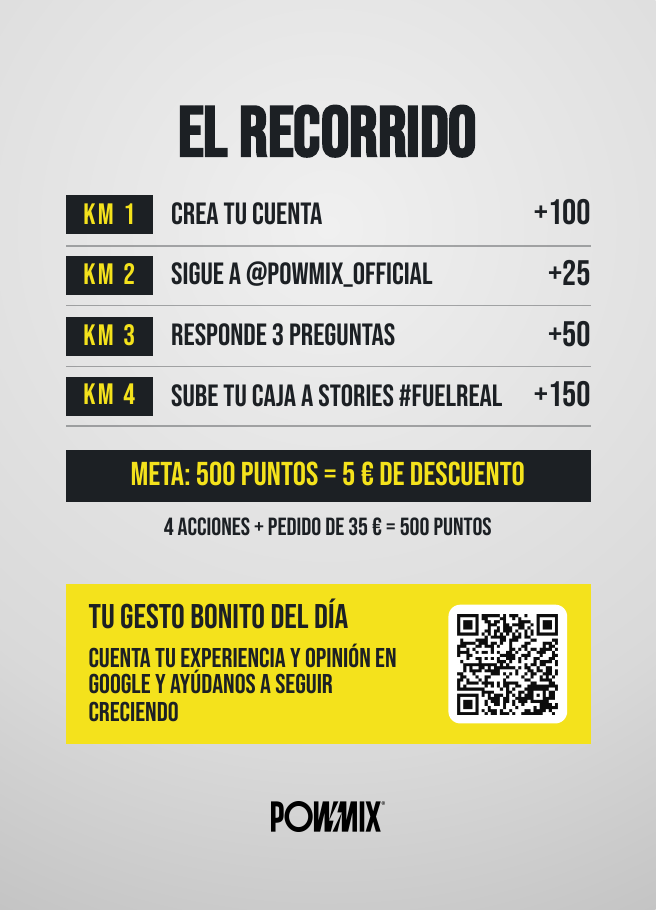
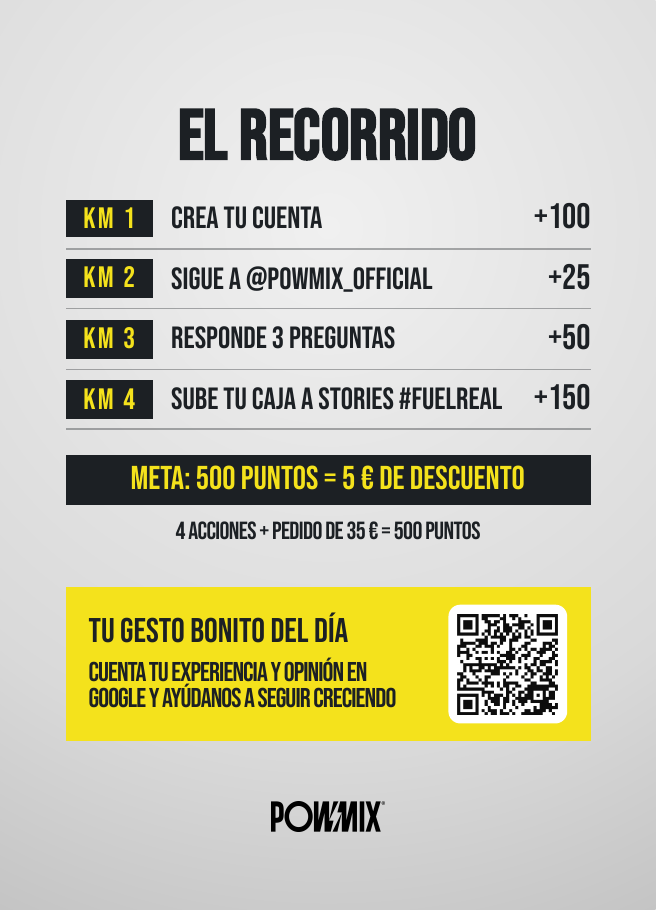
Tighter small text spacing on A6 card
Claude-Session: https://claude.ai/code/session_01ESgrYfWtbUyydYC5uboLBi

Changed region(s): [[0.0913, 0.2151, 0.9132, 0.8299], [0.274, 0.0922, 0.7306, 0.1844], [0.6393, 0.0922, 0.6697, 0.1229]]

diff --git a/a6/a6.html b/a6/a6.html
@@ -12,8 +12,8 @@ body{font-family:Bebas,sans-serif;color:#1c2024}
 .bar{background:#1c2024;color:#f4e21c;padding:1mm 5mm;white-space:nowrap}
 .pts{font-size:9mm;margin-top:auto}
 .row{display:flex;flex-direction:column;align-items:center;gap:1.2mm;margin-top:4mm;text-align:center}
-.row .t{font-size:3.6mm;line-height:1.15;letter-spacing:0}
-.row .u{font-size:5.4mm;letter-spacing:.05mm}
+.row .t{font-size:3.6mm;line-height:1.15;letter-spacing:-.1mm}
+.row .u{font-size:5.4mm;letter-spacing:-.1mm}
 .qr{width:24mm;height:24mm;background:#fff;padding:2mm;border-radius:2mm}
 .qr img{width:100%;height:100%}
 .logo{margin-top:4mm}.logo img{width:19mm}
@@ -23,10 +23,10 @@ h2{font-size:12mm;line-height:.9}
 .step b{font-weight:400;background:#1c2024;color:#f4e21c;display:flex;align-items:center;justify-content:center;width:15mm;height:6.6mm;padding:.7mm 0 0 .4mm;line-height:1;font-size:5mm;letter-spacing:.4mm}
 .step span{flex:1}.step i{font-style:normal;font-size:6mm}
 .meta{font-size:5.6mm;margin-top:4mm;width:100%}
-.note{font-size:4.2mm;margin-top:2mm;letter-spacing:0}
+.note{font-size:4.2mm;margin-top:2mm;letter-spacing:-.1mm}
 .main{flex:1;display:flex;flex-direction:column;align-items:center;justify-content:center;width:100%}.gest{margin-top:7mm;width:100%;background:#f4e21c;display:flex;align-items:center;gap:4mm;padding:3mm 4mm;text-align:left}
 .gest .t{flex:1;font-size:5.8mm;line-height:1}
-.gest .t small{display:block;font-size:4.6mm;letter-spacing:0;margin-top:1.5mm}
+.gest .t small{display:block;font-size:4.6mm;letter-spacing:-.15mm;margin-top:1.5mm}
 .gest .qr{width:20mm;height:20mm;padding:1.5mm}
 </style></head><body>
 <div class="p y">
